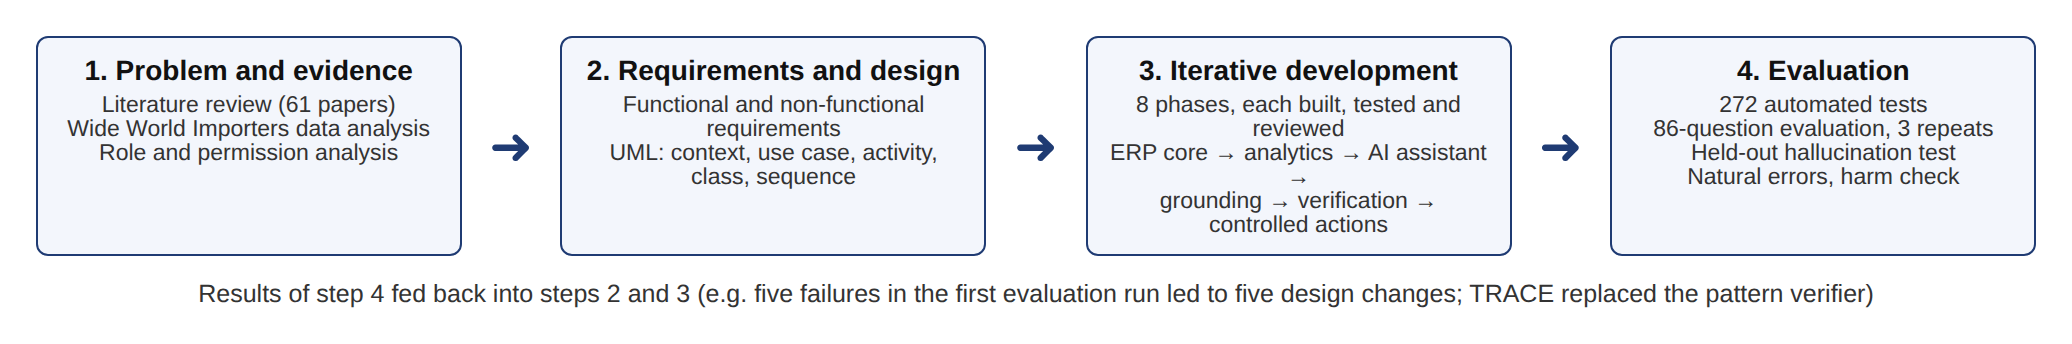
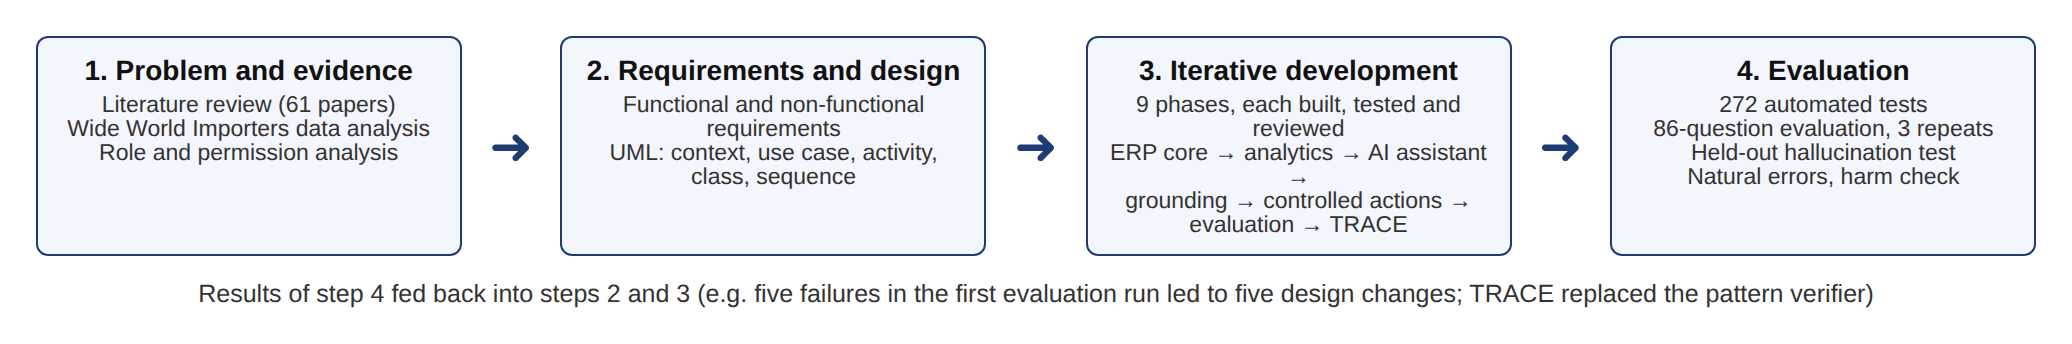
Report: nine phases listed in Section 1.7 and Figure 3.1, Figure 5.5 reference fixed, accented names and quotes in the references, no blank pages, keywords on the abstract page, Table 6.10 header

Changed region(s): [[0.5251, 0.5523, 0.7104, 0.6977], [0.5251, 0.2907, 0.556, 0.3198]]

diff --git a/Research/report/src/front.js b/Research/report/src/front.js
@@ -7,9 +7,9 @@ module.exports = [
   { p: 'AI tools were used to assist with programming and with editing the text of this report. All design decisions, experiments and results were reviewed by me, and I take full responsibility for the content.' },
 
   { front: 'Abstract' },
-  { p: 'Large language models (LLMs) are being added to enterprise resource planning (ERP) systems as assistants that answer questions, explain risks and recommend actions. Their answers sound confident, but they can be wrong: an assistant can misstate a stock level, invent a company threshold or describe a permission the user does not have. People act on these statements. This project addresses one problem: **how to stop an ERP assistant from showing users false statements about the business, using the system\'s own data as evidence.**' },
-  { p: 'IntelliERP is a full-stack ERP decision-support system (React, FastAPI, PostgreSQL) for sales, inventory and procurement, loaded with Microsoft\'s Wide World Importers data (227 products, 72,696 sales lines). Its design prevents false statements in two ways. First, deterministic analytics decide what is at risk, and the LLM takes every figure from 15 permission-checked tools and every company rule from a 41-passage knowledge base generated partly from the code. Second, every answer is verified before the user sees it: every figure is traced to a source, and every factual statement is checked by **TRACE** (Typed Run-time Assertion Checking for Enterprise assistants), which turns each statement into a typed assertion and decides its truth with the system\'s own tested code, not with another model. The AI can create nothing but a draft purchase order that a second person must approve.' },
-  { p: 'The system was evaluated on 86 questions in three repeated runs with keyword- and number-based scoring and no model as a judge: it passed 84, 86 and 86 of 86, and grounding raised the paired questions answered correctly from 8–9 to 32 of 32 (p < 0.0001). On a held-out test generated after TRACE was frozen, TRACE detected 69% of 102 model-written errors with false alarms on 4% of paraphrases, against 15% for the earlier pattern-based checker; two LLM judges detected 78% and 75% (not significantly more) and raised false alarms on 17% and 7%, and the MiniCheck fact-checker detected 37% with 21% false alarms. On the assistant\'s own answers, TRACE found 4 of 19 real errors against the judge\'s 10, because most real errors were wrong definitions, or wrong relations between correct figures, that TRACE cannot yet express. A harm check showed that a false alarm can make a correct answer wrong. The results show where deterministic verification is strong (figures, derived results, rule values) and what it still needs: a more faithful extractor and coverage of definitions.' },
-  { p: '**Keywords:** enterprise resource planning, large language models, hallucination, run-time verification, grounding, decision support' },
+  { p: 'Large language models (LLMs) are being added to enterprise resource planning (ERP) systems as assistants that answer questions, explain risks and recommend actions. Their answers sound confident but can be wrong: an assistant can misstate a stock level, invent a company threshold or describe a permission the user does not have. This project addresses one problem: **how to stop an ERP assistant from showing users false statements about the business, using the system\'s own data as evidence.**', line: 320 },
+  { p: 'IntelliERP is a full-stack ERP decision-support system for sales, inventory and procurement, loaded with Microsoft\'s Wide World Importers data (227 products, 72,696 sales lines). Its design prevents false statements in two ways. First, deterministic analytics decide what is at risk, and the LLM takes every figure from 15 permission-checked tools and every company rule from a 41-passage knowledge base generated partly from the code. Second, every answer is verified before the user sees it: every figure is traced to a source, and every factual statement is checked by **TRACE** (Typed Run-time Assertion Checking for Enterprise assistants), which turns each statement into a typed assertion and decides its truth with the system\'s own code, not another model. The AI can create nothing but a draft purchase order that a second person must approve.', line: 320 },
+  { p: 'The system was evaluated on 86 questions in three runs, scored without a model as judge: it passed 84, 86 and 86 of 86, and grounding raised the paired questions answered correctly from 8–9 to 32 of 32 (p < 0.0001). On a held-out test generated after TRACE was frozen, TRACE detected 69% of 102 model-written errors with false alarms on 4% of paraphrases, against 15% for the earlier pattern-based checker; two LLM judges detected 78% and 75% (not significantly more) and raised false alarms on 17% and 7%, and the MiniCheck fact-checker detected 37% with 21% false alarms. On the assistant\'s own answers, TRACE found 4 of 19 real errors against the judge\'s 10, because most real errors were wrong definitions, or wrong relations between correct figures, that TRACE cannot yet express. A harm check showed that a false alarm can make a correct answer wrong. Deterministic verification is strong on figures, derived results and rule values; it still needs a better extractor and coverage of definitions.', line: 320 },
+  { p: '**Keywords:** enterprise resource planning, large language models, hallucination, run-time verification, grounding, decision support', line: 320 },
   { toc: true },
 ];

diff --git a/Research/report/build.js b/Research/report/build.js
@@ -32,7 +32,8 @@ function parseBib(file) {
   }
   return entries;
 }
-const clean = s => (s || '').replace(/\\'\{?(\w)\}?/g, (_, c) => ({ a: 'á', e: 'é', i: 'í', o: 'ó', u: 'ú', E: 'É' }[c] || c))
+const clean = s => (s || '').replace(/``/g, '“').replace(/''/g, '”').replace(/\$\\tau\$/g, 'τ')
+  .replace(/\\`\{?(\w)\}?/g, (_, c) => ({ a: 'à', e: 'è', i: 'ì', o: 'ò', u: 'ù' }[c] || c)).replace(/\\'\{?(\w)\}?/g, (_, c) => ({ a: 'á', e: 'é', i: 'í', o: 'ó', u: 'ú', E: 'É', c: 'ć', n: 'ń', s: 'ś' }[c] || c))
   .replace(/\\"\{?(\w)\}?/g, (_, c) => ({ a: 'ä', o: 'ö', u: 'ü' }[c] || c)).replace(/\\c\{?c\}?/g, 'ç')
   .replace(/\\v\{?(\w)\}?/g, (_, c) => ({ c: 'č', s: 'š', z: 'ž' }[c] || c)).replace(/\\&/g, '&').replace(/--/g, '–')
   .replace(/[{}]/g, '').replace(/\\[a-z]+\s?/g, '').replace(/\s+/g, ' ').trim();
@@ -136,12 +137,14 @@ let numberedInstance = 0;
 function render(block) {
   if (block.h1) {
     chapter = block.chapter ?? chapter + 1; figNo = 0; tabNo = 0;
-    return [new Paragraph({ children: [new PageBreak()] }), new Paragraph({ heading: HeadingLevel.HEADING_1, children: [new TextRun({ text: block.h1, font: FONT })] })];
+    return [new Paragraph({ heading: HeadingLevel.HEADING_1, pageBreakBefore: true, children: [new TextRun({ text: block.h1, font: FONT })] })];
   }
-  if (block.front) return [new Paragraph({ children: [new PageBreak()] }), new Paragraph({ heading: HeadingLevel.HEADING_1, children: [new TextRun({ text: block.front, font: FONT })] })];
+  // the first front-matter page already starts a new section, so it needs no page break of its own
+  if (block.front) { const first = !render.frontSeen; render.frontSeen = true;
+    return [new Paragraph({ heading: HeadingLevel.HEADING_1, pageBreakBefore: !first, children: [new TextRun({ text: block.front, font: FONT })] })]; }
   if (block.h2) return [new Paragraph({ heading: HeadingLevel.HEADING_2, children: runs(block.h2) })];
   if (block.h3) return [new Paragraph({ heading: HeadingLevel.HEADING_3, children: runs(block.h3) })];
-  if (block.p) return [para(block.p)];
+  if (block.p) return [para(block.p, block.line ? { spacing: { line: block.line } } : {})];  // `line`: tighter spacing (the abstract, to keep its keywords on its page)
   if (block.center) return [para(block.center, { align: AlignmentType.CENTER })];
   if (block.bullets) return block.bullets.map(b => new Paragraph({ numbering: { reference: BULLET, level: 0 }, alignment: AlignmentType.JUSTIFIED,
     spacing: { after: 80, line: 340 }, children: runs(b) }));
@@ -205,7 +208,7 @@ function cover() {
   ];
 }
 function tocBlock(title, opts) {
-  return [new Paragraph({ children: [new PageBreak()] }), new Paragraph({ style: 'FrontTitle', children: [new TextRun({ text: title, font: FONT })] }),
+  return [new Paragraph({ style: 'FrontTitle', pageBreakBefore: true, children: [new TextRun({ text: title, font: FONT })] }),
     new TableOfContents(title, opts)];
 }
 
@@ -226,7 +229,7 @@ for (const name of order) {
 }
 // references, sorted, Harvard style (only references cited in the text)
 const refs = [...used].sort((a, b) => harvard(a).text.localeCompare(harvard(b).text));
-const refBlocks = [new Paragraph({ children: [new PageBreak()] }), new Paragraph({ heading: HeadingLevel.HEADING_1, children: [new TextRun({ text: 'References', font: FONT })] }),
+const refBlocks = [new Paragraph({ heading: HeadingLevel.HEADING_1, pageBreakBefore: true, children: [new TextRun({ text: 'References', font: FONT })] }),
   ...refs.map(k => { const h = harvard(k); return new Paragraph({ alignment: AlignmentType.LEFT, indent: { left: 567, hanging: 567 }, spacing: { after: 140, line: 300 },
     children: [new TextRun({ text: h.text + ' ', font: FONT, size: 22 }), ...(h.venue ? [new TextRun({ text: h.venue, italics: true, font: FONT, size: 22 })] : []),
       new TextRun({ text: h.tail, font: FONT, size: 22 })] }); })];

diff --git a/Research/report/figures/fig-methodology.html b/Research/report/figures/fig-methodology.html
@@ -7,7 +7,7 @@
 <script src="../node_modules/chart.js/dist/chart.umd.js"></script></head>
 <body><div id="fig"><div style="width:1000px">
 <div style="display:flex;gap:14px;align-items:stretch">
- <div class="box" style="flex:1"><div class="title">1. Problem and evidence</div><div class="small">Literature review (61 papers)<br>Wide World Importers data analysis<br>Role and permission analysis</div></div><div style="align-self:center;font-size:26px;color:#1f3b73">➜</div><div class="box" style="flex:1"><div class="title">2. Requirements and design</div><div class="small">Functional and non-functional requirements<br>UML: context, use case, activity, class, sequence</div></div><div style="align-self:center;font-size:26px;color:#1f3b73">➜</div><div class="box" style="flex:1"><div class="title">3. Iterative development</div><div class="small">8 phases, each built, tested and reviewed<br>ERP core → analytics → AI assistant →<br>grounding → verification → controlled actions</div></div><div style="align-self:center;font-size:26px;color:#1f3b73">➜</div><div class="box" style="flex:1"><div class="title">4. Evaluation</div><div class="small">272 automated tests<br>86-question evaluation, 3 repeats<br>Held-out hallucination test<br>Natural errors, harm check</div></div>
+ <div class="box" style="flex:1"><div class="title">1. Problem and evidence</div><div class="small">Literature review (61 papers)<br>Wide World Importers data analysis<br>Role and permission analysis</div></div><div style="align-self:center;font-size:26px;color:#1f3b73">➜</div><div class="box" style="flex:1"><div class="title">2. Requirements and design</div><div class="small">Functional and non-functional requirements<br>UML: context, use case, activity, class, sequence</div></div><div style="align-self:center;font-size:26px;color:#1f3b73">➜</div><div class="box" style="flex:1"><div class="title">3. Iterative development</div><div class="small">9 phases, each built, tested and reviewed<br>ERP core → analytics → AI assistant →<br>grounding → controlled actions →<br>evaluation → TRACE</div></div><div style="align-self:center;font-size:26px;color:#1f3b73">➜</div><div class="box" style="flex:1"><div class="title">4. Evaluation</div><div class="small">272 automated tests<br>86-question evaluation, 3 repeats<br>Held-out hallucination test<br>Natural errors, harm check</div></div>
 </div>
 <div style="margin-top:12px;text-align:center;font-size:12.5px;color:#333">Results of step 4 fed back into steps 2 and 3 (e.g. five failures in the first evaluation run led to five design changes; TRACE replaced the pattern verifier)</div>
 </div></div><script></script></body></html>

diff --git a/Research/report/src/ch1.js b/Research/report/src/ch1.js
@@ -66,7 +66,7 @@ module.exports = [
   { p: 'TRACE can only check statements its assertion language can express. Statements about definitions, reasons and the system\'s own capabilities are outside the language. The extraction step uses an LLM and can therefore be wrong; the design makes such errors visible but does not remove them.' },
 
   { h2: '1.7 Research Methodology' },
-  { p: 'The project follows a design-science approach [@hevner2004design]: an artefact (IntelliERP and TRACE) is built to address a practical problem, and its effect is measured with controlled experiments. Development was iterative, in nine phases, each of which was built, tested with automated tests and reviewed before the next started: (1) ERP foundation, (2) PostgreSQL persistence, (3) analytics, (4) LLM integration and tool calling, (5) enterprise grounding, (6) cross-module reasoning and proactive insights, (7) controlled actions and (8) evaluation. Results of the evaluation fed back into the design: five failures found in the first evaluation run led to five design changes, and the limits of the pattern-based checker led to TRACE. Chapter 3 describes the methodology in detail.' },
+  { p: 'The project follows a design-science approach [@hevner2004design]: an artefact (IntelliERP and TRACE) is built to address a practical problem, and its effect is measured with controlled experiments. Development was iterative, in nine phases, each of which was built, tested with automated tests and reviewed before the next started: (1) ERP foundation, (2) PostgreSQL persistence, (3) analytics, (4) LLM integration and tool calling, (5) enterprise grounding, (6) cross-module reasoning and proactive insights, (7) controlled actions, (8) evaluation and (9) typed run-time verification (TRACE). Results of the evaluation fed back into the design: five failures found in the first evaluation run led to five design changes, and the limits of the pattern-based checker led to TRACE. Chapter 3 describes the methodology in detail.' },
 
   { h2: '1.8 Target Audience' },
   { h3: '1.8.1 Primary' },

diff --git a/Research/report/src/ch5.js b/Research/report/src/ch5.js
@@ -154,7 +154,7 @@ module.exports = [
 
   { h2: '5.7 Uniqueness of System 5: TRACE, Typed Run-time Assertion Checking' },
   { h3: '5.7.1 Development Approach' },
-  { p: 'TRACE applies the idea of run-time assertion checking from software engineering [@meyer1992contract; @clarke2006rac] to the statements in an answer. Each factual statement is turned into a **typed assertion** in a language of 64 attributes, 24 rule keys and 21 actions, grouped in three families according to their source of truth (Table 5.5). An LLM is used only to extract the assertions, as JSON validated against a schema; **whether an assertion is true is decided by deterministic code** that reads the same services the application uses. A rule-based extractor (the twelve patterns of Section 5.6) runs alongside, and the two are combined in "hybrid" mode. Figure 5.2 shows the pipeline.' },
+  { p: 'TRACE applies the idea of run-time assertion checking from software engineering [@meyer1992contract; @clarke2006rac] to the statements in an answer. Each factual statement is turned into a **typed assertion** in a language of 64 attributes, 24 rule keys and 21 actions, grouped in three families according to their source of truth (Table 5.5). An LLM is used only to extract the assertions, as JSON validated against a schema; **whether an assertion is true is decided by deterministic code** that reads the same services the application uses. A rule-based extractor (the twelve patterns of Section 5.6) runs alongside, and the two are combined in "hybrid" mode. Figure 5.5 shows the pipeline.' },
   { table: { caption: 'The three families of the assertion language', widths: [1.6, 3, 4.4],
     head: ['Family', 'Source of truth', 'Example statements'],
     rows: [

diff --git a/Research/report/src/ch6.js b/Research/report/src/ch6.js
@@ -145,7 +145,7 @@ module.exports = [
   { p: 'Of the four held-out false alarms, three were extraction errors (twice the stated forecast horizon of 26 weeks recorded as the 12-week trend window; once a count recorded as the wrong attribute) and one came from a reused pattern. **No miss and no false alarm came from a defect in a verification function**: the extractor is the weak point, and because verdicts are deterministic, its errors are visible.' },
   { h3: '6.4.6 Natural errors: the assistant\'s own mistakes' },
   { p: 'Injected errors may differ from the errors an assistant makes on its own. A seeded random sample of 300 sentences was drawn from the 590 answers stored by five evaluation runs and labelled before any method was run on them, as *false* (anything checkable contradicted), *true*, *no claim* (advice, offers, lead-ins) or *unsure*. The labels were made by a single annotator, a language model (Claude Opus 5.5) that is not one of the evaluated models; each label records the words it marks as wrong and the evidence it rests on, so it can be checked.' },
-  { table: { caption: 'Random sample of 300 sentences from the stored answers', widths: [2.6, 1, 0.8, 0.8, 1, 0.9, 1.9],
+  { table: { caption: 'Random sample of 300 sentences from the stored answers', widths: [2.4, 1.2, 0.8, 0.8, 1, 0.9, 1.9],
     head: ['Answers', 'Sentences', 'True', 'False', 'No claim', 'Unsure', 'False among checkable'],
     rows: [
       ['All', '300', '242', '19', '34', '5', '19/261 (7.3%)'],

diff --git a/Research/report/make-figures.js b/Research/report/make-figures.js
@@ -44,7 +44,7 @@ page('fig-methodology', `<div style="width:1000px">
 <div style="display:flex;gap:14px;align-items:stretch">
  ${[['1. Problem and evidence', 'Literature review (61 papers)<br>Wide World Importers data analysis<br>Role and permission analysis'],
     ['2. Requirements and design', 'Functional and non-functional requirements<br>UML: context, use case, activity, class, sequence'],
-    ['3. Iterative development', '8 phases, each built, tested and reviewed<br>ERP core → analytics → AI assistant →<br>grounding → verification → controlled actions'],
+    ['3. Iterative development', '9 phases, each built, tested and reviewed<br>ERP core → analytics → AI assistant →<br>grounding → controlled actions →<br>evaluation → TRACE'],
     ['4. Evaluation', '272 automated tests<br>86-question evaluation, 3 repeats<br>Held-out hallucination test<br>Natural errors, harm check']]
    .map(([t, s], i) => `<div class="box" style="flex:1"><div class="title">${t}</div><div class="small">${s}</div></div>${i < 3 ? '<div style="align-self:center;font-size:26px;color:#1f3b73">➜</div>' : ''}`).join('')}
 </div>
